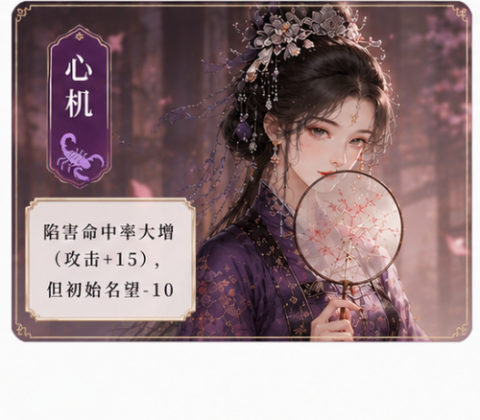
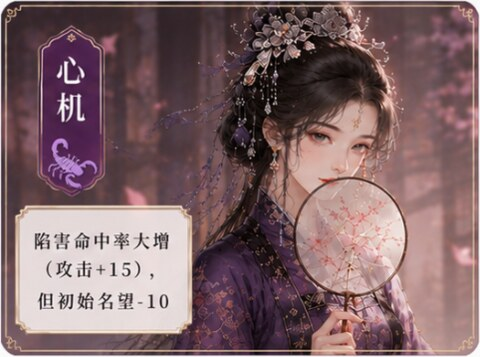
v3.10: 优化选角前端与裁剪角色卡白边

diff --git a/public/index.html b/public/index.html
@@ -44,6 +44,32 @@
   .panel::after  { bottom:4px; right:4px; border-left:none; border-top:none; }
 
   /* 入口屏 */
+  #screen-entry {
+    overflow:hidden;
+    background:
+      linear-gradient(180deg, rgba(247,236,209,0.94), rgba(234,215,178,0.90)),
+      url("ui/entry-brocade.jpg") center / cover no-repeat;
+    border-color:#9b7138;
+  }
+  #screen-entry > * { position:relative; z-index:1; }
+  #screen-entry .mode-toggle,
+  #screen-entry input[type=text] {
+    background:rgba(255,248,231,0.92);
+    box-shadow:inset 0 0 0 1px rgba(255,255,255,0.45);
+  }
+  .class-section-label {
+    display:flex; align-items:center; gap:8px;
+    margin:2px 0 8px; font-size:13px; color:var(--ink-soft);
+    letter-spacing:0.08em;
+  }
+  .class-section-label::before,
+  .class-section-label::after {
+    content:""; height:1px; flex:1;
+    background:linear-gradient(90deg, transparent, rgba(184,134,42,0.72));
+  }
+  .class-section-label::after {
+    background:linear-gradient(90deg, rgba(184,134,42,0.72), transparent);
+  }
   input[type=text],input[type=number] {
     width:100%; padding:13px 14px; font-size:16px; font-family:inherit;
     border:1px solid var(--line); border-radius:4px; background:#fff8e7; color:var(--ink); outline:none;
@@ -235,7 +261,7 @@
   .reselect-grid { display:grid; grid-template-columns:repeat(3, 1fr); gap:8px; }
   .rs-card {
     padding:0; overflow:hidden; cursor:pointer; position:relative;
-    aspect-ratio: 547 / 480;
+    aspect-ratio: 241 / 178;
     background:linear-gradient(180deg,#fff8e7,#ecd9b3);
     border:1px solid var(--gold); border-radius:5px;
     transition:transform 0.12s, box-shadow 0.12s;
@@ -452,15 +478,22 @@
   .class-card .portrait-wrap .portrait { width:100%; height:100%; }
   /* single 模式：整版卡片图（名牌+人物+标题+判词都在图里）
      卡片 = 一张完整 AI 卡牌图，铺满无留白，隐藏外层文字 */
-  /* single 模式（每角色单独 PNG）：让卡片完全等于图片，零留白 */
+  /* single 模式（每角色单独 PNG）：让卡片完全等于图片，零留白
+     关键: grid 容器自身也是深底, gap/padding 显示同色, 卡片附近完全无米色 */
   body[data-portrait-mode="single"] .class-grid {
     grid-template-columns: repeat(3, 1fr);
-    gap: 10px;
+    gap: 4px;
+    background: #1a0e0a;
+    padding: 4px;
+    border-radius: 8px;
+    border: 1px solid var(--gold);
+    box-shadow: 0 2px 6px rgba(60,30,10,0.18);
   }
   @media (max-width: 640px) {
     body[data-portrait-mode="single"] .class-grid {
       grid-template-columns: repeat(2, 1fr);
-      gap: 8px;
+      gap: 4px;
+      padding: 4px;
     }
   }
   body[data-portrait-mode="single"] .class-card {
@@ -470,12 +503,12 @@
     padding:0 !important;
     margin:0;
     position:relative;
-    aspect-ratio: 500 / 439;
+    aspect-ratio: 241 / 178;
     height:auto !important; min-height:0 !important;
     background:#1a0e0a;
-    border:none !important; border-radius:6px;
+    border:none !important; border-radius:4px;
     overflow:hidden;
-    box-shadow:0 2px 6px rgba(60,30,10,0.2);
+    box-shadow:none;
     gap:0;
   }
   body[data-portrait-mode="single"] .class-card .portrait-wrap {
@@ -577,7 +610,7 @@
     </label>
 
     <div id="class-section">
-      <div class="lbl" style="font-size:13px; color:var(--ink-soft); margin-bottom:6px;">出身（决定起始数值）</div>
+      <div class="class-section-label">出身（决定起始数值）</div>
       <div class="class-grid" id="class-grid"></div>
     </div>
 
@@ -727,7 +760,7 @@
 </audio>
 <button class="bgm-btn" id="bgm-btn" type="button" title="背景音乐" hidden>🔇</button>
 
-<script src="portraits.js?v=38"></script>
+<script src="portraits.js?v=39"></script>
 <script src="/socket.io/socket.io.js"></script><script>
 const ACTION_DEFS = [
   { id: 'serve',         em: '🌹', label: '侍寝',   tip: '消耗 25 体力，依美貌+才艺获取圣宠' },

diff --git a/public/portraits.js b/public/portraits.js
@@ -170,9 +170,9 @@ extraHTML +
   // height-to-width ratio of one column in the sheet.
   // The 6-girl AI sheet (~1024x682) gives each column ~1:4. Tune as needed.
   var SPRITE_RATIO = 4.0;
-  // height-to-width ratio for individual per-class PNGs.
-  // The auto-slicer in _slice.js cuts at 1:2.5 (classic tachi-e half-body).
-  var SINGLE_RATIO = 2.5;
+  // height-to-width ratio for individual per-class cropped card PNG/JPG assets.
+  var SINGLE_RATIO = 178 / 241;
+  var ASSET_VERSION = 'v39';
 
   // Mode detection: 'single' (per-class PNGs) > 'sprite' (sheet.png) > 'svg'
   window.PORTRAIT_MODE = 'svg';
@@ -221,7 +221,7 @@ extraHTML +
 
     if (mode === 'single') {
       // 优先用压缩 JPG（~45KB），如果 404 浏览器会显示空，PNG fallback 由 onerror 切回
-      var imgUrl = 'portraits/' + id + '.jpg';
+      var imgUrl = 'portraits/' + id + '.jpg?' + ASSET_VERSION;
       var imgStyle = 'width:100%;height:100%;object-fit:cover;border-radius:4px;';
       if (opts.headOnly) {
         // 头像聚焦：按每张图的人脸坐标定位 + 放大
@@ -232,7 +232,7 @@ extraHTML +
           'transform-origin:' + f.x + '% ' + f.y + '%;';
       }
       // JPG 加载失败时自动回退到 PNG（兼容旧服务器）
-      var fallback = 'this.onerror=null;this.src=\'portraits/' + id + '.png\'';
+      var fallback = 'this.onerror=null;this.src=\'portraits/' + id + '.png?' + ASSET_VERSION + '\'';
       return '<div class="portrait" style="' + sizeStyle + '">' +
         '<img class="portrait-img" src="' + imgUrl + '" alt="" loading="lazy" '
           + 'onerror="' + fallback + '" '
